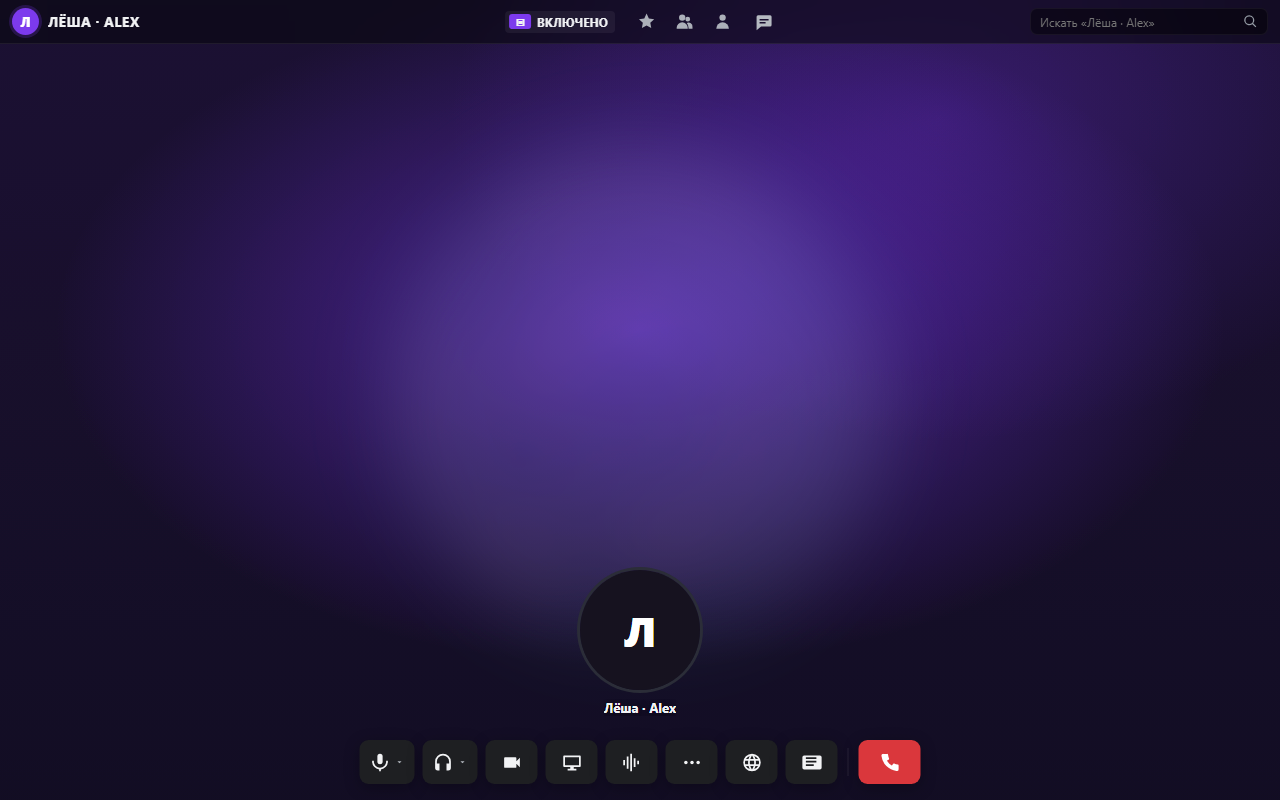
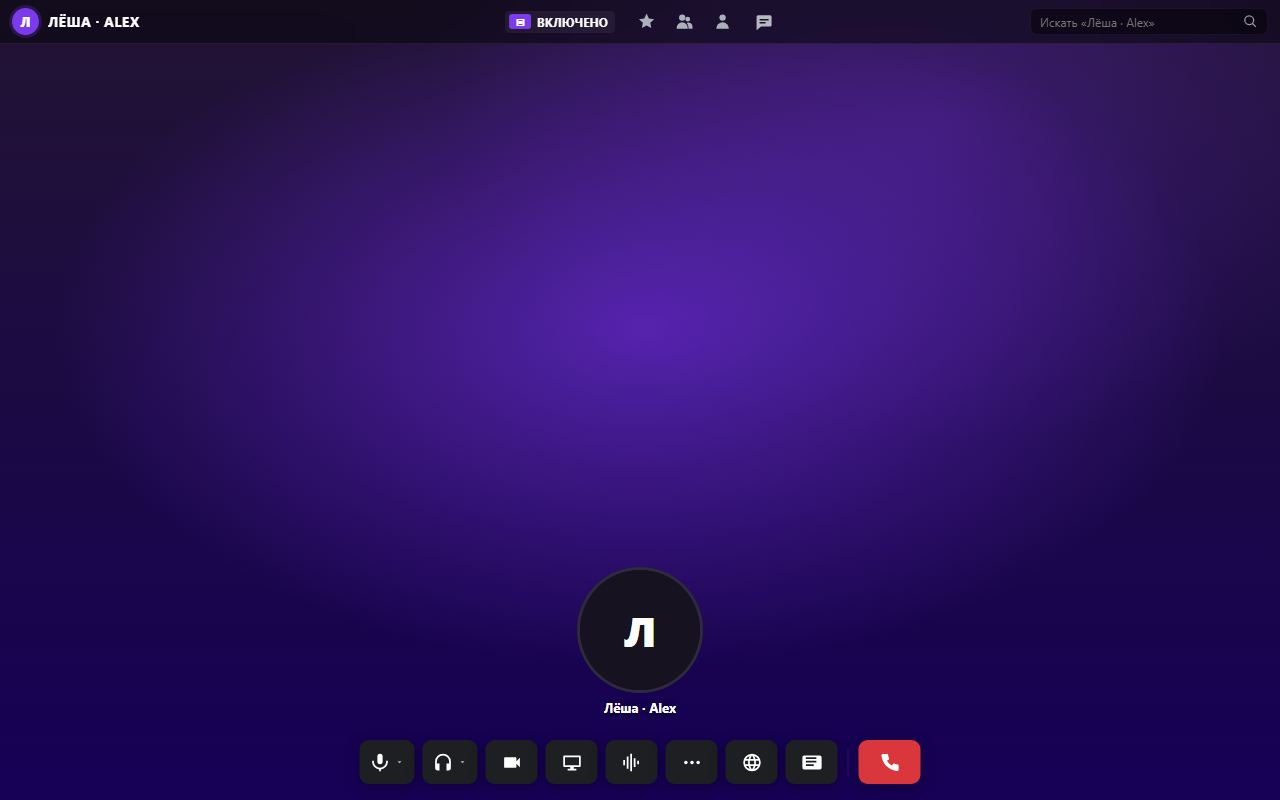
Remove Steam experiment; MIT + Commons Clause license; screenshots in author's theme
- removed the Steamworks SDK (sdk/) and the unused steam.rs module
- LICENSE: MIT with the Commons Clause condition (free use and changes,
  selling is not allowed); README license section and badge updated
- screenshots re-taken with the author's theme, background and call style
- README: "Оформление автора" section; theme exported to
  themes/sanya.safedrop-theme.json (background picture left empty)
- CHANGELOG updated

diff --git a/CHANGELOG.md b/CHANGELOG.md
@@ -8,12 +8,14 @@
 
 ### Добавлено
 - Профессиональный README со скриншотами, описанием настроек, установки и сборки.
-- Лицензия The Unlicense (общественное достояние).
+- Раздел «Оформление автора» в README и тема `themes/sanya.safedrop-theme.json`; скриншоты сняты с этим оформлением.
+- Лицензия MIT + Commons Clause: свободное использование и изменение, продажа запрещена.
 - Демо-режим в браузере показывает примерные контакты и переписку.
 - Описания релизов в `docs/releases/`.
 
 ### Удалено
-- Устаревший архив `safedrop-update-0.3.1.zip` из репозитория.
+- Steamworks SDK (`sdk/`) и неиспользуемый модуль `steam.rs` — эксперимент с Steam свёрнут.
+- Устаревший архив `safedrop-update-0.3.1.zip` из репозитория и из истории git.
 
 ## [0.3.25] — 2026-11-01
 
